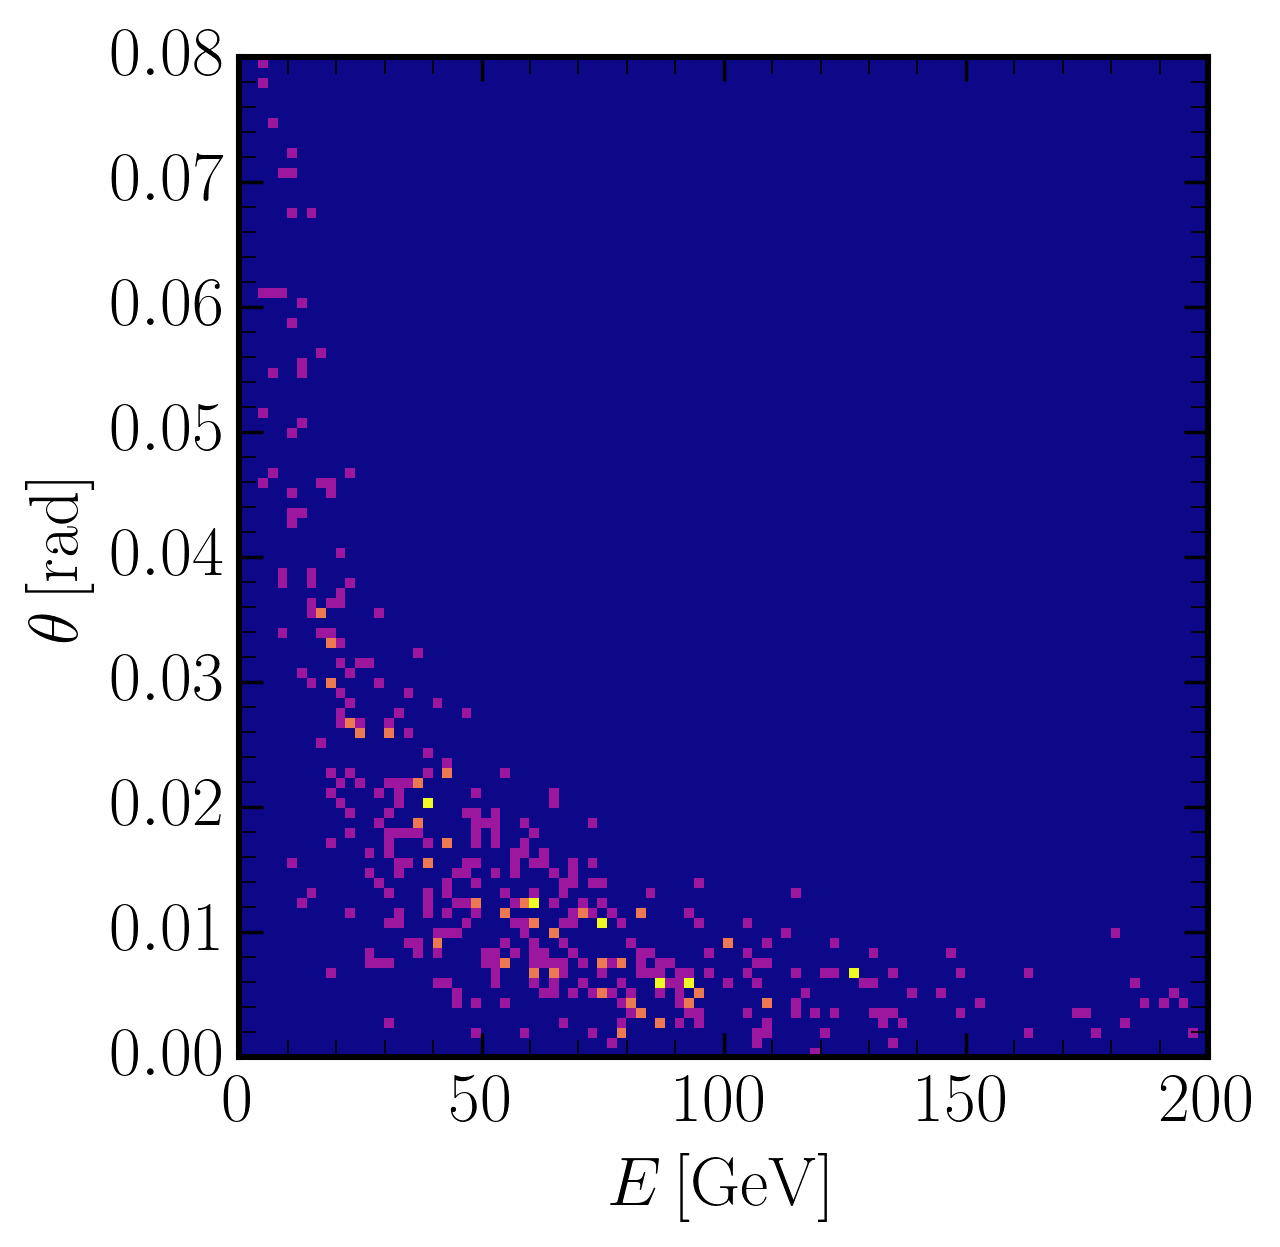
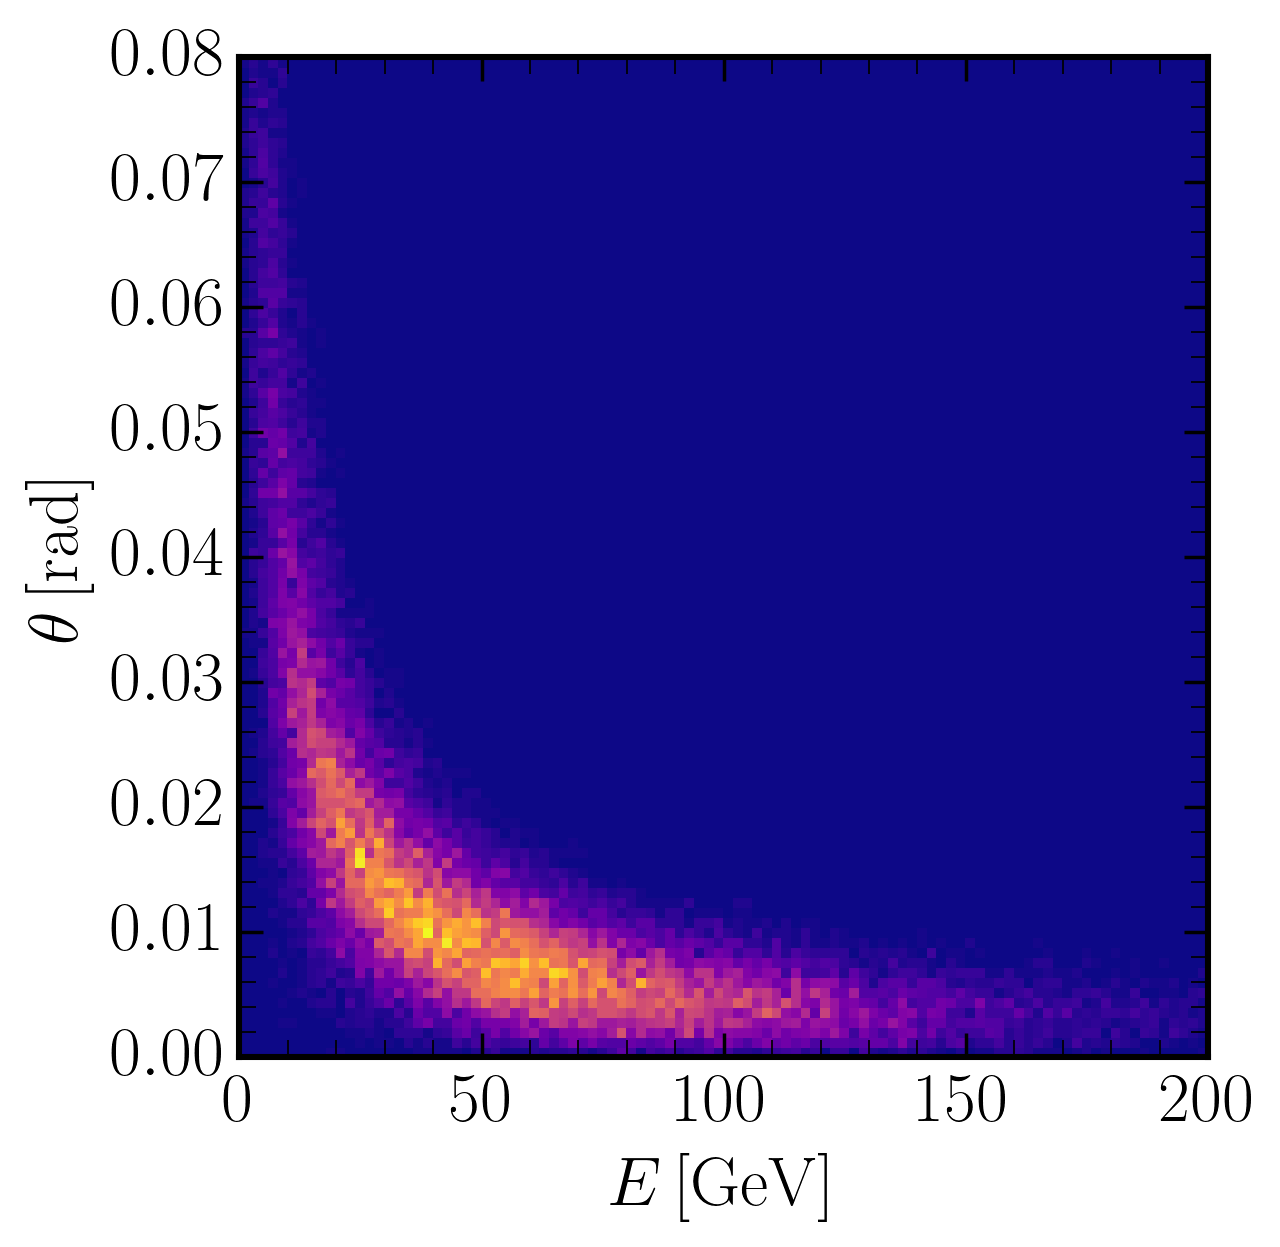
added angle-energy plot with jacobian factor

Changed region(s): [[0.1875, 0.0305, 0.9375, 0.8532]]

diff --git a/src/utils.py b/src/utils.py
@@ -29,7 +29,7 @@ def DEBUG_PLOT_MOMENTA(particle, range):
     plt.hist2d(samples[:,0], samples[:,1], bins=100, range=range)
     plt.show()
 
-def PLOT_ENERGY_ANGLE(momenta, range, filename, detector_cut=False):
+def PLOT_ENERGY_ANGLE(momenta, range, filename, detector_cut=False, horizontal_line=0, xLabel = r'$E$', yLabel = r'$\theta$'):
     if not Logger().DEBUG:
         return
     samples = []
@@ -38,16 +38,42 @@ def PLOT_ENERGY_ANGLE(momenta, range, filename, detector_cut=False):
         e = momentum.get_energy()
         samples.append([e, th])
     samples = np.array(samples)
-
     fig = plt.figure()
-    plt.xlabel(r'$E\, [ \mathrm{GeV}]$')
-    plt.ylabel(r'$\theta\, [\mathrm{rad}]$')
+    plt.xlabel(xLabel + r'$ \, [ \mathrm{GeV}]$')
+    plt.ylabel(yLabel + r'$\, [\mathrm{rad}]$')
     plt.hist2d(samples[:,0], samples[:,1], bins=100, range=range)
     y_values = plt.gca().get_yticks()
     plt.gca().set_yticklabels(['${:.2f}$'.format(x) for x in y_values])
-
     if detector_cut:
-        plt.plot(samples[:,0], np.linspace(1e-3, 1e-3, len(samples[:,0])), 'k')
+        plt.plot(samples[:,0], np.linspace(DETECTOR_OPENING_ANGLE, DETECTOR_OPENING_ANGLE, len(samples[:,0])), 'k')
+    if horizontal_line != 0:
+        plt.hlines(horizontal_line,range[0][0],range[0][1],ls = '--', color = 'white')
+        plt.text(200,horizontal_line, r'$\mathrm{BEBC} \, \theta_\mathrm{max} $', ha = 'right',
+                 va = 'bottom', color = 'white')
+    dirname = os.path.dirname(os.path.abspath(__file__))
+    plt.savefig(os.path.join(dirname, f"../recent_graphs/{filename}.png"), dpi=250)
+    
+def PLOT_ENERGY_ANGLE_JACOBIAN(momenta, range, filename, detector_cut=False, horizontal_line=0, xLabel = r'$E$', yLabel = r'$\theta$'):
+    if not Logger().DEBUG:
+        return
+    samples = []
+    for momentum in momenta:
+        th = np.arccos(momentum.get_cos_theta())
+        e = momentum.get_energy()
+        samples.append([e, 10**3*th**2])
+    samples = np.array(samples)
+    fig = plt.figure()
+    plt.xlabel(xLabel + r'$ \, [ \mathrm{GeV}]$')
+    plt.ylabel(yLabel + r'$\, [\mathrm{rad}]$')
+    plt.hist2d(samples[:,0], samples[:,1], bins=100, range=range)
+    y_values = plt.gca().get_yticks()
+    plt.gca().set_yticklabels(['${:.2f}$'.format(x) for x in y_values])
+    if detector_cut:
+        plt.plot(samples[:,0], np.linspace(DETECTOR_OPENING_ANGLE, DETECTOR_OPENING_ANGLE, len(samples[:,0])), 'k')
+    if horizontal_line != 0:
+        plt.hlines(10**3*horizontal_line**2,range[0][0],range[0][1],ls = '--', color = 'white')
+        plt.text(200,10**3*horizontal_line**2, r'$\mathrm{BEBC} \, \theta_\mathrm{max}^2 $', ha = 'right',
+                 va = 'bottom', color = 'white')
     dirname = os.path.dirname(os.path.abspath(__file__))
     plt.savefig(os.path.join(dirname, f"../recent_graphs/{filename}.png"), dpi=250)
 

diff --git a/src/particles/tau.py b/src/particles/tau.py
@@ -3,13 +3,13 @@ from .hnl import HNL
 from .particle import Particle
 from .pion import Pion
 from ..particle_masses import *
-from ..utils import generate_samples, e_cos_theta_to_momentum4, get_two_body_momenta
+from ..utils import generate_samples, e_cos_theta_to_momentum4, get_two_body_momenta, PLOT_ENERGY_ANGLE_JACOBIAN
 from .tau_decay_modes import TauDecayModes
 
 class Tau(Particle):
     def __init__(self, beam=None, parent=None, momenta=[]):
         super().__init__(TAU_MASS, beam, parent, momenta)
-    
+        self.beam = beam
     def decay(self, hnl_mass):
         if hnl_mass > TAU_MASS:
             return self
@@ -24,8 +24,11 @@ class Tau(Particle):
         hnl_rest_samples = generate_samples(e, cos_theta, dist_func=lambda e, cos: self.diff_decay_to_hnl_nu_lepton(hnl_mass, e, cos), n_samples=self.beam.num_samples)
         hnl_rest_momenta  = e_cos_theta_to_momentum4(hnl_rest_samples, hnl_mass)
         hnl.set_momenta(hnl_rest_momenta).boost(self.momenta)
-        hnl.decay()
+        PLOT_ENERGY_ANGLE_JACOBIAN(hnl.momenta, ((0, 200), (0, 0.5)), filename=f"hnls_from_TAU_[{self.beam.mixing_type}]", detector_cut=False,
+                          horizontal_line=self.beam.max_opening_angle, xLabel = r'$E_N$', yLabel = r'$\theta_N^2 \, \times \, 10^{-3}$')
 
+        hnl.decay()
+        
         if hnl_mass + pion.m < self.m:
             hnl_rest_momenta_two_body = get_two_body_momenta(self, hnl, pion, self.beam.num_samples)
             hnl2body.set_momenta(hnl_rest_momenta_two_body).boost(self.momenta)
